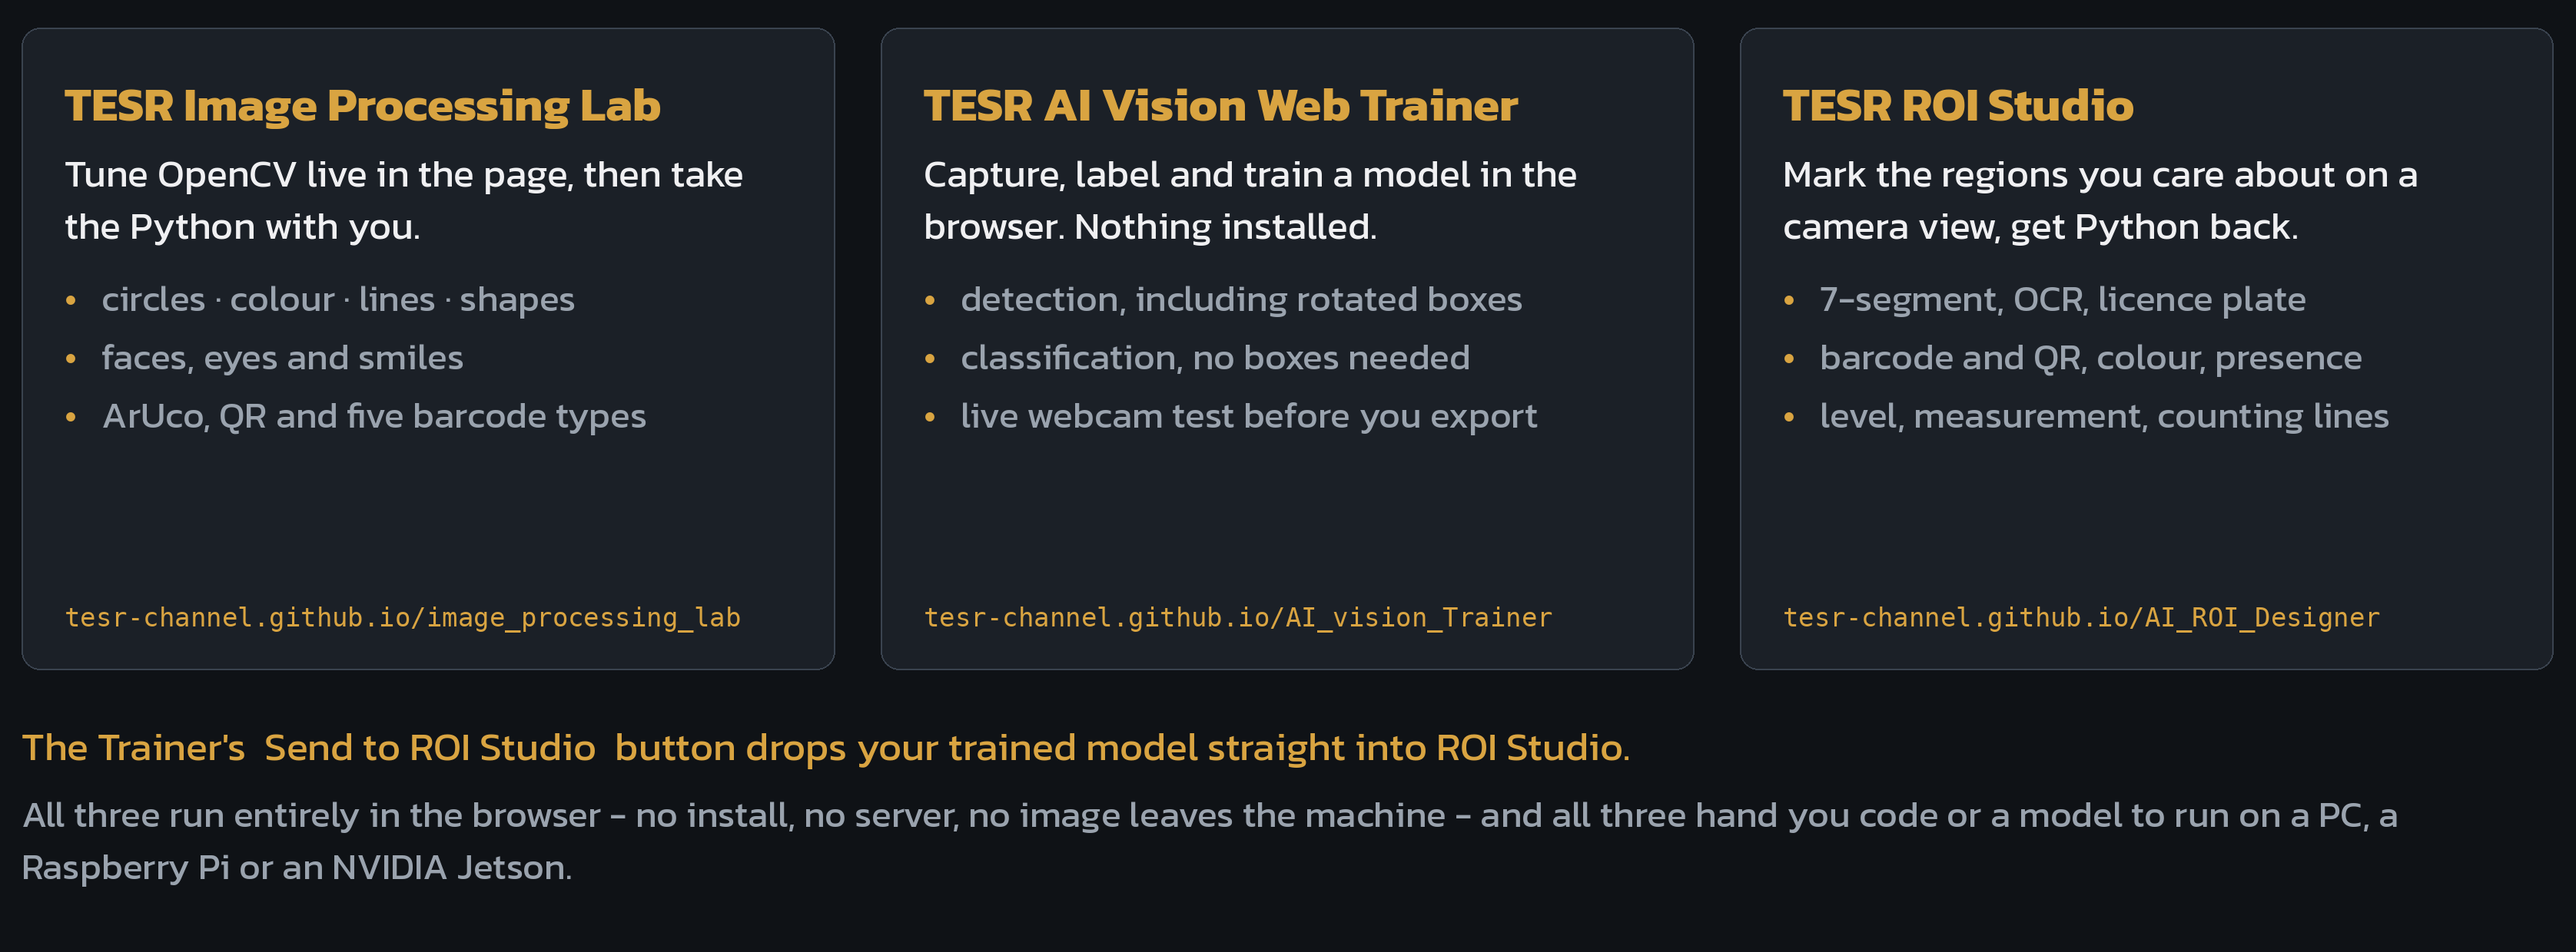
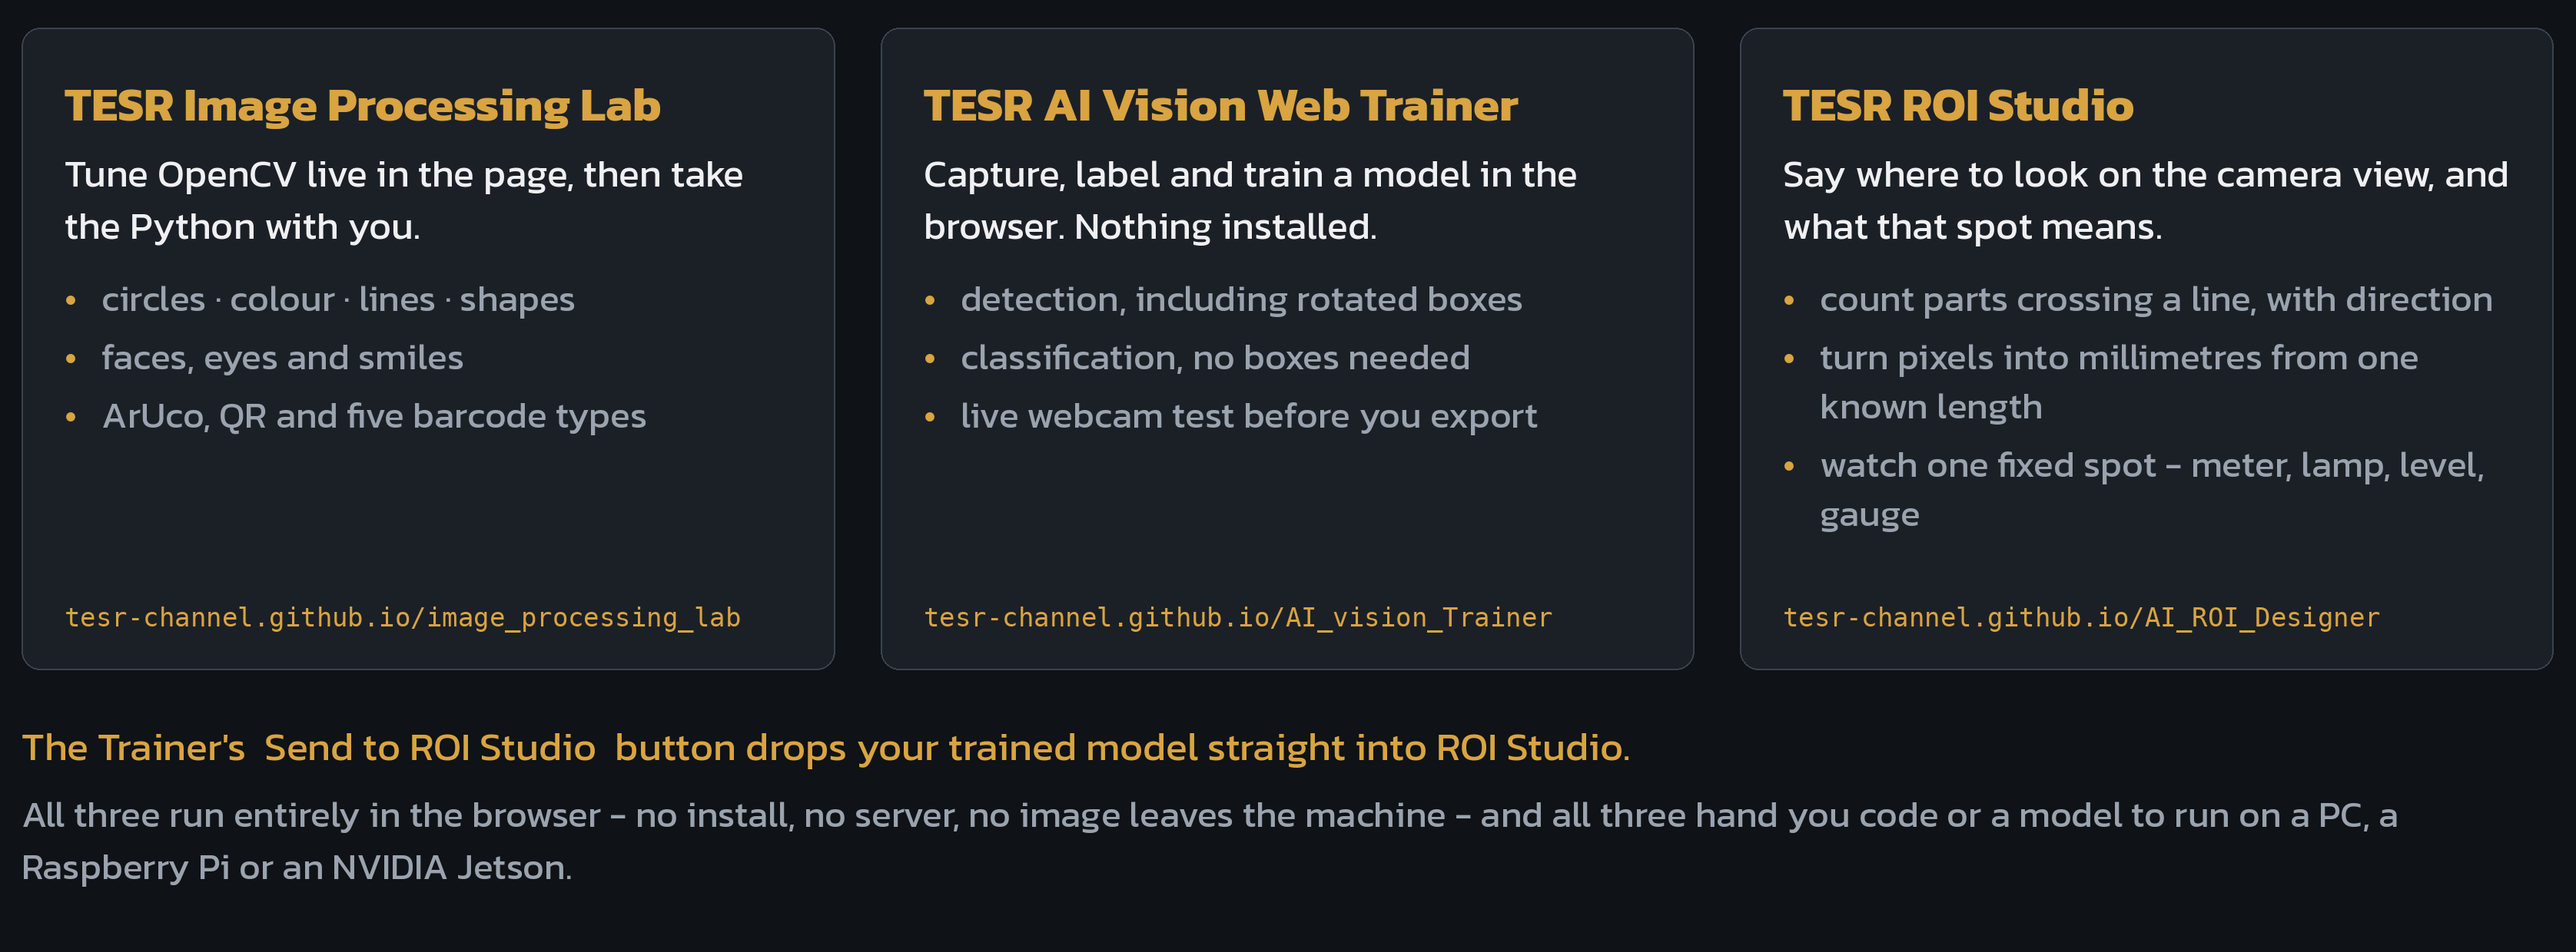
slide_assets: three more chapter 0 figures, and ROI Studio reframed
ROI Studio's card repeated the Image Processing Lab's barcode and QR line.
It is the applied tool, not a second reader: where to look, what crosses a
line, and what a pixel is worth in millimetres. Card rewritten around that.

New figures for the chapter 0 pages that were still text only:

  ch0_arc       camera, image processing, your own labelled images, the
                device - first three are real OpenCV output, the fourth
                says on its face that it is a diagram
  ch0_takehome  the files that leave with a participant, under their real
                names from the export
  ch0_measure   a known length in the scene becomes millimetres per pixel,
                worked through with its numbers shown and labelled as a
                worked example rather than a measurement of the photo

Claude-Session: https://claude.ai/code/session_01L2BgT3gVYruUssRpoAW2J5

Changed region(s): [[0.7136, 0.3677, 0.9618, 0.5516], [0.6826, 0.1532, 0.9618, 0.2758], [0.7136, 0.3065, 0.9618, 0.3371]]

diff --git a/slide_assets/src/ch0_panels2.py b/slide_assets/src/ch0_panels2.py
@@ -1,0 +1,286 @@
+"""More figures for chapter 0, the course overview.
+
+Chapter 0 is the first thing anyone sees, so it carries the heaviest burden
+of showing rather than telling. These four figures go on the pages that were
+still text only.
+
+Real OpenCV output is used wherever a result is shown. Where a figure is a
+diagram - a device, a worked sum - it says so on the figure itself.
+
+Output: /home/claude/deck/img/ch0_*.png, for a 1920x1080 slide at 2x.
+"""
+import cv2
+import numpy as np
+from PIL import Image, ImageDraw
+
+from ch0_panels import (font, wrap, OUT, BG, PANEL, EDGE, GOLD, MUTED, WHITE,
+                        S, W, H)
+
+SAMPLES = "/home/claude/image_processing_lab/samples/"
+GREEN = (111, 191, 115)
+BLUE = (214, 92, 88)
+
+
+def canvas():
+    img = Image.new("RGB", (W * S, H * S), BG)
+    return img, ImageDraw.Draw(img)
+
+
+def bgr2rgb(img):
+    return cv2.cvtColor(img, cv2.COLOR_BGR2RGB) if img.ndim == 3 else \
+           cv2.cvtColor(img, cv2.COLOR_GRAY2RGB)
+
+
+def paste_fit(img, d, frame, box, outline=EDGE):
+    x, y, bw, bh = box
+    rgb = bgr2rgb(frame)
+    ih, iw = rgb.shape[:2]
+    sc = min(bw / iw, bh / ih)
+    tw, th = int(iw * sc), int(ih * sc)
+    tile = Image.fromarray(cv2.resize(rgb, (tw * S, th * S),
+                                      interpolation=cv2.INTER_AREA))
+    px = (x + (bw - tw) // 2) * S
+    py = (y + (bh - th) // 2) * S
+    img.paste(tile, (px, py))
+    d.rectangle([px - 2, py - 2, px + tw * S + 1, py + th * S + 1],
+                outline=outline, width=2)
+    return px, py, tw * S, th * S
+
+
+def red_discs():
+    img = cv2.imread(SAMPLES + "ex3.png")
+    hsv = cv2.cvtColor(img, cv2.COLOR_BGR2HSV)
+    m = cv2.inRange(hsv, (0, 120, 70), (4, 255, 255)) | \
+        cv2.inRange(hsv, (172, 120, 70), (179, 255, 255))
+    m = cv2.morphologyEx(m, cv2.MORPH_OPEN, np.ones((5, 5), np.uint8))
+    cs, _ = cv2.findContours(m, cv2.RETR_EXTERNAL, cv2.CHAIN_APPROX_SIMPLE)
+    return img, [c for c in cs if cv2.contourArea(c) > 400]
+
+
+def device_card(cw, ch, lines, head):
+    """A drawn edge device, labelled as a diagram - not a photo."""
+    im = Image.new("RGB", (cw * S, ch * S), BG)
+    d = ImageDraw.Draw(im)
+    f_h = font("Kanit", 26, "bold")
+    f_m = font("DejaVu Sans Mono", 19)
+
+    bw_, bh_ = cw - 40, 150
+    bx_, by_ = 20, 40
+    d.rounded_rectangle([bx_ * S, by_ * S, (bx_ + bw_) * S, (by_ + bh_) * S],
+                        radius=12 * S, fill=PANEL, outline=GOLD, width=3)
+    d.text(((bx_ + 20) * S, (by_ + 18) * S), head, font=f_h, fill=GOLD)
+    # a row of pins along the bottom edge, so it reads as a board
+    for i in range(16):
+        px = bx_ + 24 + i * 15
+        d.rectangle([px * S, (by_ + bh_ - 12) * S, (px + 7) * S,
+                     (by_ + bh_ - 4) * S], fill=EDGE)
+    y = by_ + bh_ + 24
+    for ln in lines:
+        d.text((bx_ * S + 20 * S, y * S), ln, font=f_m, fill=MUTED)
+        y += 30
+    return cv2.cvtColor(np.array(im), cv2.COLOR_RGB2BGR)
+
+
+# --------------------------------------------------------------------------
+# ch0_arc - what the two days actually produce
+# --------------------------------------------------------------------------
+def fig_arc():
+    src, cs = red_discs()
+
+    raw = src.copy()
+
+    boxed = src.copy()
+    for c in cs:
+        x, y, w_, h_ = cv2.boundingRect(c)
+        cv2.rectangle(boxed, (x, y), (x + w_, y + h_), (88, 92, 214), 3)
+
+    labelled = src.copy()
+    for i, c in enumerate(sorted(cs, key=cv2.contourArea, reverse=True)[:3]):
+        x, y, w_, h_ = cv2.boundingRect(c)
+        cv2.rectangle(labelled, (x, y), (x + w_, y + h_), (115, 191, 111), 3)
+        cv2.rectangle(labelled, (x, y - 26), (x + 118, y), (115, 191, 111), -1)
+        cv2.putText(labelled, "part_a", (x + 6, y - 7),
+                    cv2.FONT_HERSHEY_SIMPLEX, 0.62, (20, 24, 20), 2)
+
+    img, d = canvas()
+    f_l = font("Kanit", 28, "bold")
+    f_s = font("Kanit", 24)
+    f_n = font("Kanit", 25)
+
+    PAD, gap, arrow = 14, 26, 34
+    cw = (W - 2 * PAD - 3 * (gap + arrow)) // 4
+    top, chh = 60, 436
+
+    dev = device_card(cw, chh, ["$ python predict.py",
+                                "part_a  x=412 y=236",
+                                "mqtt  tesr/line1/count 6"],
+                      "Raspberry Pi / Jetson")
+
+    cells = [(raw, "A camera on the bench", "any USB webcam"),
+             (boxed, "Image processing", "tuned on the web, code exported"),
+             (labelled, "Your own images", "labelled, then trained"),
+             (dev, "Running on the device", "diagram - result goes to MQTT")]
+
+    x = PAD
+    for i, (fr, lab, sub) in enumerate(cells):
+        d.text((x * S, (top - 38) * S), lab, font=f_l,
+               fill=GOLD if i == len(cells) - 1 else WHITE)
+        paste_fit(img, d, fr, (x, top, cw, chh),
+                  outline=BG if i == 3 else EDGE)
+        d.text((x * S, (top + chh + 10) * S), sub, font=f_s, fill=MUTED)
+        if i < len(cells) - 1:
+            ax = (x + cw + gap // 2 + 4) * S
+            ay = (top + chh // 2) * S
+            d.polygon([(ax, ay - 14 * S), (ax + 26 * S, ay),
+                       (ax, ay + 14 * S)], fill=GOLD)
+        x += cw + gap + arrow
+
+    d.text((PAD * S, (H - 40) * S),
+           "Two days, end to end. The first three panels are real output from "
+           "the course sample images; the fourth is a diagram of where it "
+           "ends up.", font=f_n, fill=MUTED)
+    img.save(OUT + "ch0_arc.png")
+    print("ch0_arc.png")
+
+
+# --------------------------------------------------------------------------
+# ch0_takehome - the files that leave with the participant
+# --------------------------------------------------------------------------
+TREE = [
+    ("workshop/", "", True),
+    ("  best.pt", "the model you trained, in PyTorch", False),
+    ("  model.onnx", "the portable export", False),
+    ("  predict.py", "runs on PC, Raspberry Pi and Jetson", False),
+    ("  install_pi.sh", "sets the device up", False),
+    ("  build_trt.sh", "builds the TensorRT engine on Jetson", False),
+    ("  README_DEPLOY.md", "how to run it, step by step", False),
+    ("  dataset/", "your own photos and their labels", True),
+    ("  notebooks/", "every workshop script, commented", True),
+]
+
+
+def fig_takehome():
+    img, d = canvas()
+    f_f = font("DejaVu Sans Mono", 26)
+    f_c = font("Kanit", 24)
+    f_h = font("Kanit", 30, "bold")
+    f_n = font("Kanit", 25)
+
+    PAD = 14
+    cw, ch = W - 2 * PAD, 452
+    top = 40
+    d.rounded_rectangle([PAD * S, top * S, (PAD + cw) * S, (top + ch) * S],
+                        radius=12 * S, fill=PANEL, outline=EDGE, width=2)
+
+    d.text((60 * S, (top + 26) * S), "What leaves with you at the end of day two",
+           font=f_h, fill=GOLD)
+
+    y = top + 86
+    for name, note, is_dir in TREE:
+        d.text((60 * S, y * S), name, font=f_f,
+               fill=GOLD if is_dir else WHITE)
+        if note:
+            d.text((700 * S, (y + 3) * S), note, font=f_c, fill=MUTED)
+        y += 40
+
+    d.text((PAD * S, (H - 50) * S),
+           "Real file names from the export, not placeholders. Nothing here "
+           "needs TESR afterwards - it runs on your own machine and your own "
+           "device.", font=f_n, fill=MUTED)
+    img.save(OUT + "ch0_takehome.png")
+    print("ch0_takehome.png")
+
+
+# --------------------------------------------------------------------------
+# ch0_measure - pixels into millimetres, the worked example
+# --------------------------------------------------------------------------
+REF_MM = 10.0
+REF_PX = 120.0
+PART_PX = 480.0
+
+
+def fig_measure():
+    src = cv2.imread(SAMPLES + "ex3.png")
+    h0, w0 = src.shape[:2]
+
+    # panel 1 - a known length laid on the scene
+    a = src.copy()
+    y0 = int(h0 * 0.86)
+    x0 = int(w0 * 0.10)
+    cv2.line(a, (x0, y0), (x0 + 120, y0), (65, 164, 217), 4)
+    for xx in (x0, x0 + 120):
+        cv2.line(a, (xx, y0 - 12), (xx, y0 + 12), (65, 164, 217), 4)
+    cv2.putText(a, "10 mm", (x0, y0 - 24), cv2.FONT_HERSHEY_SIMPLEX,
+                0.8, (65, 164, 217), 2)
+
+    # panel 2 - the same length counted in pixels
+    b = src.copy()
+    cv2.line(b, (x0, y0), (x0 + 120, y0), (115, 191, 111), 4)
+    for xx in (x0, x0 + 120):
+        cv2.line(b, (xx, y0 - 12), (xx, y0 + 12), (115, 191, 111), 4)
+    cv2.putText(b, "120 px", (x0, y0 - 24), cv2.FONT_HERSHEY_SIMPLEX,
+                0.8, (115, 191, 111), 2)
+
+    img, d = canvas()
+    f_l = font("Kanit", 28, "bold")
+    f_s = font("Kanit", 24)
+    f_n = font("Kanit", 25)
+    f_big = font("DejaVu Sans Mono", 34, "bold")
+    f_m = font("DejaVu Sans Mono", 24)
+
+    PAD, gap = 14, 32
+    cw = (W - 2 * PAD - 2 * gap) // 3
+    top, chh = 56, 424
+
+    cells = [(a, "Put a known length in the scene",
+              "a ruler, a gauge block, a printed mark"),
+             (b, "Count how many pixels it spans",
+              "the camera does not move after this")]
+    x = PAD
+    for fr, lab, sub in cells:
+        d.text((x * S, (top - 38) * S), lab, font=f_l, fill=WHITE)
+        paste_fit(img, d, fr, (x, top, cw, chh))
+        d.text((x * S, (top + chh + 10) * S), sub, font=f_s, fill=MUTED)
+        x += cw + gap
+
+    # the sum
+    d.text((x * S, (top - 38) * S), "Now every pixel has a size",
+           font=f_l, fill=GOLD)
+    d.rounded_rectangle([x * S, top * S, (x + cw) * S, (top + chh) * S],
+                        radius=12 * S, fill=PANEL, outline=EDGE, width=2)
+    mm_per_px = REF_MM / REF_PX
+    part_mm = PART_PX * mm_per_px
+    M = 30
+    yy = top + 44
+    for line, col, fnt in [
+            ("%.0f mm / %.0f px" % (REF_MM, REF_PX), MUTED, f_m),
+            ("= %.4f mm per pixel" % mm_per_px, GOLD, f_big),
+            ("", MUTED, f_m),
+            ("a part spanning %.0f px" % PART_PX, MUTED, f_m),
+            ("= %.1f mm" % part_mm, GOLD, f_big)]:
+        if line:
+            d.text(((x + M) * S, yy * S), line, font=fnt, fill=col)
+        yy += 46 if fnt is f_big else 38
+
+    for i, ln in enumerate(wrap(d,
+                                "Re-measure the reference whenever the camera "
+                                "or the lens moves. The scale belongs to that "
+                                "one setup, not to the camera.",
+                                f_s, (cw - 2 * M) * S)):
+        d.text(((x + M) * S, (yy + 14 + i * 32) * S), ln, font=f_s, fill=MUTED)
+
+    note = ("A worked example with chosen numbers, to show the method - not "
+            "a measurement of this photo. Accuracy depends on the lens, the "
+            "distance and how square the part sits.")
+    ny = H - 76
+    for ln in wrap(d, note, f_n, (W - 2 * PAD) * S):
+        d.text((PAD * S, ny * S), ln, font=f_n, fill=MUTED)
+        ny += 34
+    img.save(OUT + "ch0_measure.png")
+    print("ch0_measure.png  %.4f mm/px  %.1f mm" % (mm_per_px, part_mm))
+
+
+if __name__ == "__main__":
+    fig_arc()
+    fig_takehome()
+    fig_measure()

diff --git a/slide_assets/src/ch0_panels.py b/slide_assets/src/ch0_panels.py
@@ -58,10 +58,10 @@ TOOLS = [
       "live webcam test before you export"],
      "tesr-channel.github.io/AI_vision_Trainer"),
     ("TESR ROI Studio",
-     "Mark the regions you care about on a camera view, get Python back.",
-     ["7-segment, OCR, licence plate",
-      "barcode and QR, colour, presence",
-      "level, measurement, counting lines"],
+     "Say where to look on the camera view, and what that spot means.",
+     ["count parts crossing a line, with direction",
+      "turn pixels into millimetres from one known length",
+      "watch one fixed spot - meter, lamp, level, gauge"],
      "tesr-channel.github.io/AI_ROI_Designer"),
 ]
 
